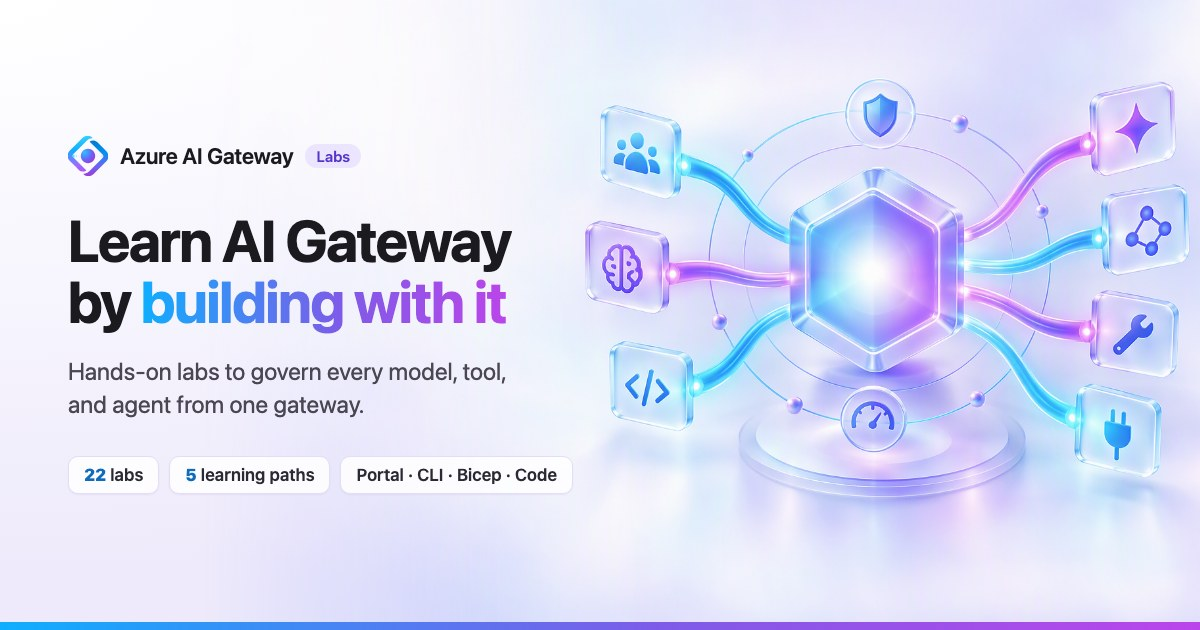
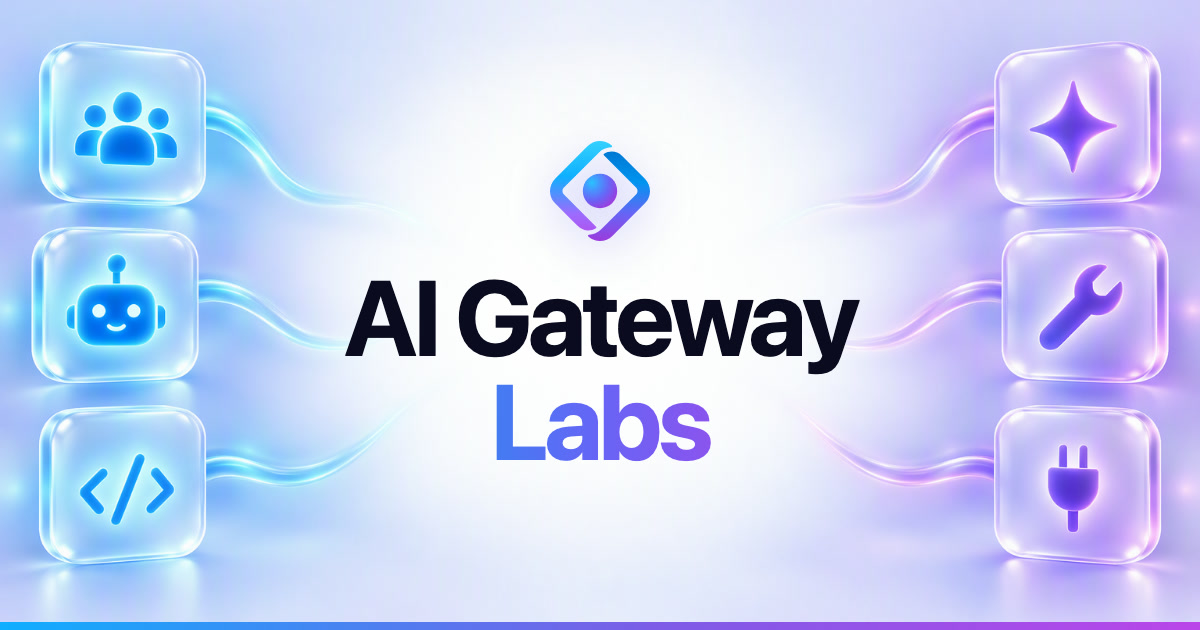
Redesign the social preview image for cropped link previews
Teams and other chat apps crop link previews to a centered square or
4:3 thumbnail, which cut the left-aligned title and left only small,
unreadable text. The new card centers a large "AI Gateway Labs" title
inside the square safe zone, drops the small text and lab counts, and
keeps the artwork on the sides. The image URL now carries a content
hash so link-preview caches fetch the new image.

Copilot-Session: d05b6670-abba-4799-9d8e-3b2580e7bf94

diff --git a/docs/labs/04-federate-mcp-tools/index.html b/docs/labs/04-federate-mcp-tools/index.html
@@ -10,13 +10,13 @@
 <meta property="og:type" content="website">
 <meta property="og:site_name" content="Azure AI Gateway Labs">
 <meta property="og:url" content="https://azure.github.io/ai-gateway/labs/04-federate-mcp-tools/">
-<meta property="og:image" content="https://azure.github.io/ai-gateway/assets/og-image.jpg">
+<meta property="og:image" content="https://azure.github.io/ai-gateway/assets/og-image.jpg?v=d3cc78b4">
 <meta property="og:image:type" content="image/jpeg">
 <meta property="og:image:width" content="1200">
 <meta property="og:image:height" content="630">
-<meta property="og:image:alt" content="Azure AI Gateway Labs: learn AI Gateway by building with it. Apps, agents, and code connect through one gateway to models and tools.">
+<meta property="og:image:alt" content="Azure AI Gateway Labs. Apps, agents, and code connect through one gateway to models, tools, and connectors.">
 <meta name="twitter:card" content="summary_large_image">
-<meta name="twitter:image" content="https://azure.github.io/ai-gateway/assets/og-image.jpg">
+<meta name="twitter:image" content="https://azure.github.io/ai-gateway/assets/og-image.jpg?v=d3cc78b4">
 <link rel="canonical" href="https://azure.github.io/ai-gateway/labs/04-federate-mcp-tools/">
 <meta name="theme-color" content="#ffffff" media="(prefers-color-scheme: light)">
 <meta name="theme-color" content="#1b1a1f" media="(prefers-color-scheme: dark)">
@@ -69,7 +69,7 @@
         <span class="meta-pill"><span class="level-dots" aria-hidden="true"><i class="on"></i><i></i><i></i></span>Beginner</span>
         <span class="meta-pill"><svg class="i" viewBox="0 0 20 20" aria-hidden="true"><circle cx="10" cy="10" r="7.5"/><path d="M10 5.5V10l3 2"/></svg>30 min</span>
         <span class="meta-pill meta-tracks"><span class="track-chips"><span class="track-chip" title="Portal"><svg class="i" viewBox="0 0 20 20" aria-hidden="true"><rect x="2.5" y="3.5" width="15" height="11" rx="2"/><path d="M7 17.5h6M10 14.5v3"/><path d="m9 7 4 2-1.7.7-.7 1.8Z"/></svg><span>Portal</span></span><span class="track-chip" title="Azure CLI"><svg class="i" viewBox="0 0 20 20" aria-hidden="true"><rect x="2.5" y="3.5" width="15" height="13" rx="2"/><path d="m6 8 2.5 2L6 12M10.5 12.5H14"/></svg><span>CLI</span></span><span class="track-chip" title="Bicep / azd"><svg class="i" viewBox="0 0 20 20" aria-hidden="true"><path d="M10 2.5 17 6.5v7L10 17.5 3 13.5v-7Z"/><path d="M3 6.5 10 10.5l7-4M10 10.5v7"/></svg><span>Bicep</span></span><span class="track-chip" title="Code"><svg class="i" viewBox="0 0 20 20" aria-hidden="true"><path d="m7 6-4 4 4 4M13 6l4 4-4 4"/></svg><span>Code</span></span></span></span>
-        <span class="meta-updated">Updated <time datetime="2026-10-19">Oct 19, 2026</time></span>
+        <span class="meta-updated">Updated <time datetime="2026-10-22">Oct 22, 2026</time></span>
       </div>
       <div class="lab-actions">
         <button class="btn btn-secondary btn-sm" type="button" data-values-open><svg class="i" viewBox="0 0 20 20" aria-hidden="true"><path d="M3 6h7M14 6h3M3 14h3M10 14h7"/><circle cx="12" cy="6" r="2"/><circle cx="8" cy="14" r="2"/></svg>Your values</button>

diff --git a/docs/labs/12-backend-identity/index.html b/docs/labs/12-backend-identity/index.html
@@ -10,13 +10,13 @@
 <meta property="og:type" content="website">
 <meta property="og:site_name" content="Azure AI Gateway Labs">
 <meta property="og:url" content="https://azure.github.io/ai-gateway/labs/12-backend-identity/">
-<meta property="og:image" content="https://azure.github.io/ai-gateway/assets/og-image.jpg">
+<meta property="og:image" content="https://azure.github.io/ai-gateway/assets/og-image.jpg?v=d3cc78b4">
 <meta property="og:image:type" content="image/jpeg">
 <meta property="og:image:width" content="1200">
 <meta property="og:image:height" content="630">
-<meta property="og:image:alt" content="Azure AI Gateway Labs: learn AI Gateway by building with it. Apps, agents, and code connect through one gateway to models and tools.">
+<meta property="og:image:alt" content="Azure AI Gateway Labs. Apps, agents, and code connect through one gateway to models, tools, and connectors.">
 <meta name="twitter:card" content="summary_large_image">
-<meta name="twitter:image" content="https://azure.github.io/ai-gateway/assets/og-image.jpg">
+<meta name="twitter:image" content="https://azure.github.io/ai-gateway/assets/og-image.jpg?v=d3cc78b4">
 <link rel="canonical" href="https://azure.github.io/ai-gateway/labs/12-backend-identity/">
 <meta name="theme-color" content="#ffffff" media="(prefers-color-scheme: light)">
 <meta name="theme-color" content="#1b1a1f" media="(prefers-color-scheme: dark)">
@@ -69,7 +69,7 @@
         <span class="meta-pill"><span class="level-dots" aria-hidden="true"><i class="on"></i><i class="on"></i><i></i></span>Intermediate</span>
         <span class="meta-pill"><svg class="i" viewBox="0 0 20 20" aria-hidden="true"><circle cx="10" cy="10" r="7.5"/><path d="M10 5.5V10l3 2"/></svg>20 min</span>
         <span class="meta-pill meta-tracks"><span class="track-chips"><span class="track-chip" title="Portal"><svg class="i" viewBox="0 0 20 20" aria-hidden="true"><rect x="2.5" y="3.5" width="15" height="11" rx="2"/><path d="M7 17.5h6M10 14.5v3"/><path d="m9 7 4 2-1.7.7-.7 1.8Z"/></svg><span>Portal</span></span><span class="track-chip" title="Azure CLI"><svg class="i" viewBox="0 0 20 20" aria-hidden="true"><rect x="2.5" y="3.5" width="15" height="13" rx="2"/><path d="m6 8 2.5 2L6 12M10.5 12.5H14"/></svg><span>CLI</span></span><span class="track-chip" title="Bicep / azd"><svg class="i" viewBox="0 0 20 20" aria-hidden="true"><path d="M10 2.5 17 6.5v7L10 17.5 3 13.5v-7Z"/><path d="M3 6.5 10 10.5l7-4M10 10.5v7"/></svg><span>Bicep</span></span></span></span>
-        <span class="meta-updated">Updated <time datetime="2026-10-19">Oct 19, 2026</time></span>
+        <span class="meta-updated">Updated <time datetime="2026-10-22">Oct 22, 2026</time></span>
       </div>
       <div class="lab-actions">
         <button class="btn btn-secondary btn-sm" type="button" data-values-open><svg class="i" viewBox="0 0 20 20" aria-hidden="true"><path d="M3 6h7M14 6h3M3 14h3M10 14h7"/><circle cx="12" cy="6" r="2"/><circle cx="8" cy="14" r="2"/></svg>Your values</button>

diff --git a/docs/labs/16-foundry-hosted-agent/index.html b/docs/labs/16-foundry-hosted-agent/index.html
@@ -10,13 +10,13 @@
 <meta property="og:type" content="website">
 <meta property="og:site_name" content="Azure AI Gateway Labs">
 <meta property="og:url" content="https://azure.github.io/ai-gateway/labs/16-foundry-hosted-agent/">
-<meta property="og:image" content="https://azure.github.io/ai-gateway/assets/og-image.jpg">
+<meta property="og:image" content="https://azure.github.io/ai-gateway/assets/og-image.jpg?v=d3cc78b4">
 <meta property="og:image:type" content="image/jpeg">
 <meta property="og:image:width" content="1200">
 <meta property="og:image:height" content="630">
-<meta property="og:image:alt" content="Azure AI Gateway Labs: learn AI Gateway by building with it. Apps, agents, and code connect through one gateway to models and tools.">
+<meta property="og:image:alt" content="Azure AI Gateway Labs. Apps, agents, and code connect through one gateway to models, tools, and connectors.">
 <meta name="twitter:card" content="summary_large_image">
-<meta name="twitter:image" content="https://azure.github.io/ai-gateway/assets/og-image.jpg">
+<meta name="twitter:image" content="https://azure.github.io/ai-gateway/assets/og-image.jpg?v=d3cc78b4">
 <link rel="canonical" href="https://azure.github.io/ai-gateway/labs/16-foundry-hosted-agent/">
 <meta name="theme-color" content="#ffffff" media="(prefers-color-scheme: light)">
 <meta name="theme-color" content="#1b1a1f" media="(prefers-color-scheme: dark)">
@@ -69,7 +69,7 @@
         <span class="meta-pill"><span class="level-dots" aria-hidden="true"><i class="on"></i><i class="on"></i><i></i></span>Intermediate</span>
         <span class="meta-pill"><svg class="i" viewBox="0 0 20 20" aria-hidden="true"><circle cx="10" cy="10" r="7.5"/><path d="M10 5.5V10l3 2"/></svg>40 min</span>
         <span class="meta-pill meta-tracks"><span class="track-chips"><span class="track-chip" title="Portal"><svg class="i" viewBox="0 0 20 20" aria-hidden="true"><rect x="2.5" y="3.5" width="15" height="11" rx="2"/><path d="M7 17.5h6M10 14.5v3"/><path d="m9 7 4 2-1.7.7-.7 1.8Z"/></svg><span>Portal</span></span><span class="track-chip" title="Azure CLI"><svg class="i" viewBox="0 0 20 20" aria-hidden="true"><rect x="2.5" y="3.5" width="15" height="13" rx="2"/><path d="m6 8 2.5 2L6 12M10.5 12.5H14"/></svg><span>CLI</span></span><span class="track-chip" title="Code"><svg class="i" viewBox="0 0 20 20" aria-hidden="true"><path d="m7 6-4 4 4 4M13 6l4 4-4 4"/></svg><span>Code</span></span></span></span>
-        <span class="meta-updated">Updated <time datetime="2026-10-19">Oct 19, 2026</time></span>
+        <span class="meta-updated">Updated <time datetime="2026-10-22">Oct 22, 2026</time></span>
       </div>
       <div class="lab-actions">
         <button class="btn btn-secondary btn-sm" type="button" data-values-open><svg class="i" viewBox="0 0 20 20" aria-hidden="true"><path d="M3 6h7M14 6h3M3 14h3M10 14h7"/><circle cx="12" cy="6" r="2"/><circle cx="8" cy="14" r="2"/></svg>Your values</button>

diff --git a/docs/labs/22-model-routing/index.html b/docs/labs/22-model-routing/index.html
@@ -10,13 +10,13 @@
 <meta property="og:type" content="website">
 <meta property="og:site_name" content="Azure AI Gateway Labs">
 <meta property="og:url" content="https://azure.github.io/ai-gateway/labs/22-model-routing/">
-<meta property="og:image" content="https://azure.github.io/ai-gateway/assets/og-image.jpg">
+<meta property="og:image" content="https://azure.github.io/ai-gateway/assets/og-image.jpg?v=d3cc78b4">
 <meta property="og:image:type" content="image/jpeg">
 <meta property="og:image:width" content="1200">
 <meta property="og:image:height" content="630">
-<meta property="og:image:alt" content="Azure AI Gateway Labs: learn AI Gateway by building with it. Apps, agents, and code connect through one gateway to models and tools.">
+<meta property="og:image:alt" content="Azure AI Gateway Labs. Apps, agents, and code connect through one gateway to models, tools, and connectors.">
 <meta name="twitter:card" content="summary_large_image">
-<meta name="twitter:image" content="https://azure.github.io/ai-gateway/assets/og-image.jpg">
+<meta name="twitter:image" content="https://azure.github.io/ai-gateway/assets/og-image.jpg?v=d3cc78b4">
 <link rel="canonical" href="https://azure.github.io/ai-gateway/labs/22-model-routing/">
 <meta name="theme-color" content="#ffffff" media="(prefers-color-scheme: light)">
 <meta name="theme-color" content="#1b1a1f" media="(prefers-color-scheme: dark)">
@@ -69,7 +69,7 @@
         <span class="meta-pill"><span class="level-dots" aria-hidden="true"><i class="on"></i><i class="on"></i><i></i></span>Intermediate</span>
         <span class="meta-pill"><svg class="i" viewBox="0 0 20 20" aria-hidden="true"><circle cx="10" cy="10" r="7.5"/><path d="M10 5.5V10l3 2"/></svg>25 min</span>
         <span class="meta-pill meta-tracks"><span class="track-chips"><span class="track-chip" title="Portal"><svg class="i" viewBox="0 0 20 20" aria-hidden="true"><rect x="2.5" y="3.5" width="15" height="11" rx="2"/><path d="M7 17.5h6M10 14.5v3"/><path d="m9 7 4 2-1.7.7-.7 1.8Z"/></svg><span>Portal</span></span><span class="track-chip" title="Azure CLI"><svg class="i" viewBox="0 0 20 20" aria-hidden="true"><rect x="2.5" y="3.5" width="15" height="13" rx="2"/><path d="m6 8 2.5 2L6 12M10.5 12.5H14"/></svg><span>CLI</span></span><span class="track-chip" title="Bicep / azd"><svg class="i" viewBox="0 0 20 20" aria-hidden="true"><path d="M10 2.5 17 6.5v7L10 17.5 3 13.5v-7Z"/><path d="M3 6.5 10 10.5l7-4M10 10.5v7"/></svg><span>Bicep</span></span></span></span>
-        
+        <span class="meta-updated">Updated <time datetime="2026-10-22">Oct 22, 2026</time></span>
       </div>
       <div class="lab-actions">
         <button class="btn btn-secondary btn-sm" type="button" data-values-open><svg class="i" viewBox="0 0 20 20" aria-hidden="true"><path d="M3 6h7M14 6h3M3 14h3M10 14h7"/><circle cx="12" cy="6" r="2"/><circle cx="8" cy="14" r="2"/></svg>Your values</button>

diff --git a/docs/labs/15-agent-frameworks/index.html b/docs/labs/15-agent-frameworks/index.html
@@ -10,13 +10,13 @@
 <meta property="og:type" content="website">
 <meta property="og:site_name" content="Azure AI Gateway Labs">
 <meta property="og:url" content="https://azure.github.io/ai-gateway/labs/15-agent-frameworks/">
-<meta property="og:image" content="https://azure.github.io/ai-gateway/assets/og-image.jpg">
+<meta property="og:image" content="https://azure.github.io/ai-gateway/assets/og-image.jpg?v=d3cc78b4">
 <meta property="og:image:type" content="image/jpeg">
 <meta property="og:image:width" content="1200">
 <meta property="og:image:height" content="630">
-<meta property="og:image:alt" content="Azure AI Gateway Labs: learn AI Gateway by building with it. Apps, agents, and code connect through one gateway to models and tools.">
+<meta property="og:image:alt" content="Azure AI Gateway Labs. Apps, agents, and code connect through one gateway to models, tools, and connectors.">
 <meta name="twitter:card" content="summary_large_image">
-<meta name="twitter:image" content="https://azure.github.io/ai-gateway/assets/og-image.jpg">
+<meta name="twitter:image" content="https://azure.github.io/ai-gateway/assets/og-image.jpg?v=d3cc78b4">
 <link rel="canonical" href="https://azure.github.io/ai-gateway/labs/15-agent-frameworks/">
 <meta name="theme-color" content="#ffffff" media="(prefers-color-scheme: light)">
 <meta name="theme-color" content="#1b1a1f" media="(prefers-color-scheme: dark)">
@@ -69,7 +69,7 @@
         <span class="meta-pill"><span class="level-dots" aria-hidden="true"><i class="on"></i><i class="on"></i><i></i></span>Intermediate</span>
         <span class="meta-pill"><svg class="i" viewBox="0 0 20 20" aria-hidden="true"><circle cx="10" cy="10" r="7.5"/><path d="M10 5.5V10l3 2"/></svg>30 min</span>
         <span class="meta-pill meta-tracks"><span class="track-chips"><span class="track-chip" title="Code"><svg class="i" viewBox="0 0 20 20" aria-hidden="true"><path d="m7 6-4 4 4 4M13 6l4 4-4 4"/></svg><span>Code</span></span></span></span>
-        <span class="meta-updated">Updated <time datetime="2026-10-19">Oct 19, 2026</time></span>
+        <span class="meta-updated">Updated <time datetime="2026-10-22">Oct 22, 2026</time></span>
       </div>
       <div class="lab-actions">
         <button class="btn btn-secondary btn-sm" type="button" data-values-open><svg class="i" viewBox="0 0 20 20" aria-hidden="true"><path d="M3 6h7M14 6h3M3 14h3M10 14h7"/><circle cx="12" cy="6" r="2"/><circle cx="8" cy="14" r="2"/></svg>Your values</button>

diff --git a/docs/labs/03-multi-provider-aliases/index.html b/docs/labs/03-multi-provider-aliases/index.html
@@ -10,13 +10,13 @@
 <meta property="og:type" content="website">
 <meta property="og:site_name" content="Azure AI Gateway Labs">
 <meta property="og:url" content="https://azure.github.io/ai-gateway/labs/03-multi-provider-aliases/">
-<meta property="og:image" content="https://azure.github.io/ai-gateway/assets/og-image.jpg">
+<meta property="og:image" content="https://azure.github.io/ai-gateway/assets/og-image.jpg?v=d3cc78b4">
 <meta property="og:image:type" content="image/jpeg">
 <meta property="og:image:width" content="1200">
 <meta property="og:image:height" content="630">
-<meta property="og:image:alt" content="Azure AI Gateway Labs: learn AI Gateway by building with it. Apps, agents, and code connect through one gateway to models and tools.">
+<meta property="og:image:alt" content="Azure AI Gateway Labs. Apps, agents, and code connect through one gateway to models, tools, and connectors.">
 <meta name="twitter:card" content="summary_large_image">
-<meta name="twitter:image" content="https://azure.github.io/ai-gateway/assets/og-image.jpg">
+<meta name="twitter:image" content="https://azure.github.io/ai-gateway/assets/og-image.jpg?v=d3cc78b4">
 <link rel="canonical" href="https://azure.github.io/ai-gateway/labs/03-multi-provider-aliases/">
 <meta name="theme-color" content="#ffffff" media="(prefers-color-scheme: light)">
 <meta name="theme-color" content="#1b1a1f" media="(prefers-color-scheme: dark)">

diff --git a/docs/labs/19-tool-threat-protection/index.html b/docs/labs/19-tool-threat-protection/index.html
@@ -10,13 +10,13 @@
 <meta property="og:type" content="website">
 <meta property="og:site_name" content="Azure AI Gateway Labs">
 <meta property="og:url" content="https://azure.github.io/ai-gateway/labs/19-tool-threat-protection/">
-<meta property="og:image" content="https://azure.github.io/ai-gateway/assets/og-image.jpg">
+<meta property="og:image" content="https://azure.github.io/ai-gateway/assets/og-image.jpg?v=d3cc78b4">
 <meta property="og:image:type" content="image/jpeg">
 <meta property="og:image:width" content="1200">
 <meta property="og:image:height" content="630">
-<meta property="og:image:alt" content="Azure AI Gateway Labs: learn AI Gateway by building with it. Apps, agents, and code connect through one gateway to models and tools.">
+<meta property="og:image:alt" content="Azure AI Gateway Labs. Apps, agents, and code connect through one gateway to models, tools, and connectors.">
 <meta name="twitter:card" content="summary_large_image">
-<meta name="twitter:image" content="https://azure.github.io/ai-gateway/assets/og-image.jpg">
+<meta name="twitter:image" content="https://azure.github.io/ai-gateway/assets/og-image.jpg?v=d3cc78b4">
 <link rel="canonical" href="https://azure.github.io/ai-gateway/labs/19-tool-threat-protection/">
 <meta name="theme-color" content="#ffffff" media="(prefers-color-scheme: light)">
 <meta name="theme-color" content="#1b1a1f" media="(prefers-color-scheme: dark)">

diff --git a/docs/labs/00-how-ai-gateway-works/index.html b/docs/labs/00-how-ai-gateway-works/index.html
@@ -10,13 +10,13 @@
 <meta property="og:type" content="website">
 <meta property="og:site_name" content="Azure AI Gateway Labs">
 <meta property="og:url" content="https://azure.github.io/ai-gateway/labs/00-how-ai-gateway-works/">
-<meta property="og:image" content="https://azure.github.io/ai-gateway/assets/og-image.jpg">
+<meta property="og:image" content="https://azure.github.io/ai-gateway/assets/og-image.jpg?v=d3cc78b4">
 <meta property="og:image:type" content="image/jpeg">
 <meta property="og:image:width" content="1200">
 <meta property="og:image:height" content="630">
-<meta property="og:image:alt" content="Azure AI Gateway Labs: learn AI Gateway by building with it. Apps, agents, and code connect through one gateway to models and tools.">
+<meta property="og:image:alt" content="Azure AI Gateway Labs. Apps, agents, and code connect through one gateway to models, tools, and connectors.">
 <meta name="twitter:card" content="summary_large_image">
-<meta name="twitter:image" content="https://azure.github.io/ai-gateway/assets/og-image.jpg">
+<meta name="twitter:image" content="https://azure.github.io/ai-gateway/assets/og-image.jpg?v=d3cc78b4">
 <link rel="canonical" href="https://azure.github.io/ai-gateway/labs/00-how-ai-gateway-works/">
 <meta name="theme-color" content="#ffffff" media="(prefers-color-scheme: light)">
 <meta name="theme-color" content="#1b1a1f" media="(prefers-color-scheme: dark)">

diff --git a/docs/labs/20-agent-365-governance/index.html b/docs/labs/20-agent-365-governance/index.html
@@ -10,13 +10,13 @@
 <meta property="og:type" content="website">
 <meta property="og:site_name" content="Azure AI Gateway Labs">
 <meta property="og:url" content="https://azure.github.io/ai-gateway/labs/20-agent-365-governance/">
-<meta property="og:image" content="https://azure.github.io/ai-gateway/assets/og-image.jpg">
+<meta property="og:image" content="https://azure.github.io/ai-gateway/assets/og-image.jpg?v=d3cc78b4">
 <meta property="og:image:type" content="image/jpeg">
 <meta property="og:image:width" content="1200">
 <meta property="og:image:height" content="630">
-<meta property="og:image:alt" content="Azure AI Gateway Labs: learn AI Gateway by building with it. Apps, agents, and code connect through one gateway to models and tools.">
+<meta property="og:image:alt" content="Azure AI Gateway Labs. Apps, agents, and code connect through one gateway to models, tools, and connectors.">
 <meta name="twitter:card" content="summary_large_image">
-<meta name="twitter:image" content="https://azure.github.io/ai-gateway/assets/og-image.jpg">
+<meta name="twitter:image" content="https://azure.github.io/ai-gateway/assets/og-image.jpg?v=d3cc78b4">
 <link rel="canonical" href="https://azure.github.io/ai-gateway/labs/20-agent-365-governance/">
 <meta name="theme-color" content="#ffffff" media="(prefers-color-scheme: light)">
 <meta name="theme-color" content="#1b1a1f" media="(prefers-color-scheme: dark)">

diff --git a/docs/labs/21-enterprise-reference/index.html b/docs/labs/21-enterprise-reference/index.html
@@ -10,13 +10,13 @@
 <meta property="og:type" content="website">
 <meta property="og:site_name" content="Azure AI Gateway Labs">
 <meta property="og:url" content="https://azure.github.io/ai-gateway/labs/21-enterprise-reference/">
-<meta property="og:image" content="https://azure.github.io/ai-gateway/assets/og-image.jpg">
+<meta property="og:image" content="https://azure.github.io/ai-gateway/assets/og-image.jpg?v=d3cc78b4">
 <meta property="og:image:type" content="image/jpeg">
 <meta property="og:image:width" content="1200">
 <meta property="og:image:height" content="630">
-<meta property="og:image:alt" content="Azure AI Gateway Labs: learn AI Gateway by building with it. Apps, agents, and code connect through one gateway to models and tools.">
+<meta property="og:image:alt" content="Azure AI Gateway Labs. Apps, agents, and code connect through one gateway to models, tools, and connectors.">
 <meta name="twitter:card" content="summary_large_image">
-<meta name="twitter:image" content="https://azure.github.io/ai-gateway/assets/og-image.jpg">
+<meta name="twitter:image" content="https://azure.github.io/ai-gateway/assets/og-image.jpg?v=d3cc78b4">
 <link rel="canonical" href="https://azure.github.io/ai-gateway/labs/21-enterprise-reference/">
 <meta name="theme-color" content="#ffffff" media="(prefers-color-scheme: light)">
 <meta name="theme-color" content="#1b1a1f" media="(prefers-color-scheme: dark)">

diff --git a/docs/labs/17-coding-agent-plugin/index.html b/docs/labs/17-coding-agent-plugin/index.html
@@ -10,13 +10,13 @@
 <meta property="og:type" content="website">
 <meta property="og:site_name" content="Azure AI Gateway Labs">
 <meta property="og:url" content="https://azure.github.io/ai-gateway/labs/17-coding-agent-plugin/">
-<meta property="og:image" content="https://azure.github.io/ai-gateway/assets/og-image.jpg">
+<meta property="og:image" content="https://azure.github.io/ai-gateway/assets/og-image.jpg?v=d3cc78b4">
 <meta property="og:image:type" content="image/jpeg">
 <meta property="og:image:width" content="1200">
 <meta property="og:image:height" content="630">
-<meta property="og:image:alt" content="Azure AI Gateway Labs: learn AI Gateway by building with it. Apps, agents, and code connect through one gateway to models and tools.">
+<meta property="og:image:alt" content="Azure AI Gateway Labs. Apps, agents, and code connect through one gateway to models, tools, and connectors.">
 <meta name="twitter:card" content="summary_large_image">
-<meta name="twitter:image" content="https://azure.github.io/ai-gateway/assets/og-image.jpg">
+<meta name="twitter:image" content="https://azure.github.io/ai-gateway/assets/og-image.jpg?v=d3cc78b4">
 <link rel="canonical" href="https://azure.github.io/ai-gateway/labs/17-coding-agent-plugin/">
 <meta name="theme-color" content="#ffffff" media="(prefers-color-scheme: light)">
 <meta name="theme-color" content="#1b1a1f" media="(prefers-color-scheme: dark)">

diff --git a/docs/labs/18-private-networking/index.html b/docs/labs/18-private-networking/index.html
@@ -10,13 +10,13 @@
 <meta property="og:type" content="website">
 <meta property="og:site_name" content="Azure AI Gateway Labs">
 <meta property="og:url" content="https://azure.github.io/ai-gateway/labs/18-private-networking/">
-<meta property="og:image" content="https://azure.github.io/ai-gateway/assets/og-image.jpg">
+<meta property="og:image" content="https://azure.github.io/ai-gateway/assets/og-image.jpg?v=d3cc78b4">
 <meta property="og:image:type" content="image/jpeg">
 <meta property="og:image:width" content="1200">
 <meta property="og:image:height" content="630">
-<meta property="og:image:alt" content="Azure AI Gateway Labs: learn AI Gateway by building with it. Apps, agents, and code connect through one gateway to models and tools.">
+<meta property="og:image:alt" content="Azure AI Gateway Labs. Apps, agents, and code connect through one gateway to models, tools, and connectors.">
 <meta name="twitter:card" content="summary_large_image">
-<meta name="twitter:image" content="https://azure.github.io/ai-gateway/assets/og-image.jpg">
+<meta name="twitter:image" content="https://azure.github.io/ai-gateway/assets/og-image.jpg?v=d3cc78b4">
 <link rel="canonical" href="https://azure.github.io/ai-gateway/labs/18-private-networking/">
 <meta name="theme-color" content="#ffffff" media="(prefers-color-scheme: light)">
 <meta name="theme-color" content="#1b1a1f" media="(prefers-color-scheme: dark)">
